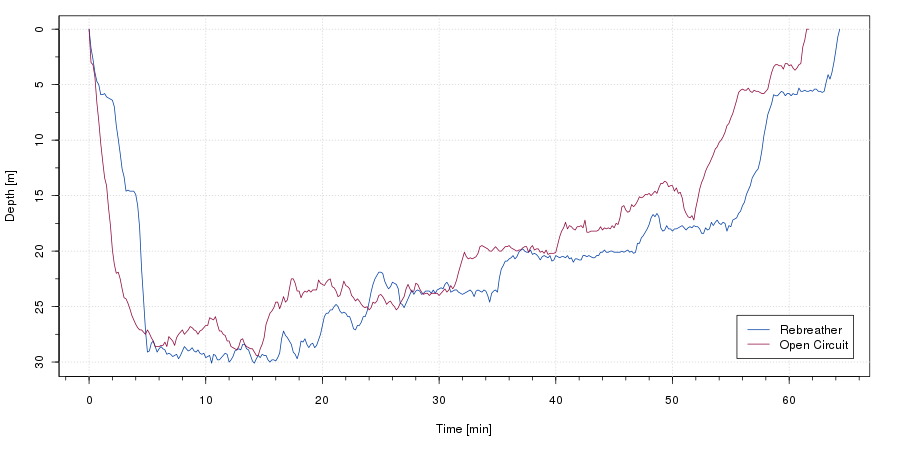
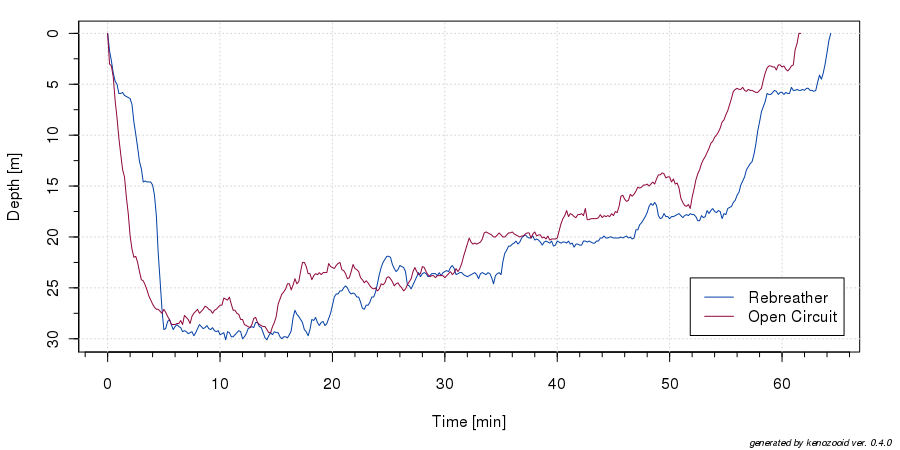
- set dpi of dive profile plots to 96 dpi to improve plot quality - signature displaying on dive profile comparison is back

diff --git a/doc/user/changelog.rst b/doc/user/changelog.rst
@@ -6,6 +6,7 @@ Kenozooid 0.4.0
 - setpoint data parsing and plotting implemented
 - dive profile annotation with gas and setpoint events improvements
 - improved dive info presentation on dive profile plot
+- improved quality of dive profile plots in PNG format
 
 Kenozooid 0.3.0
 ---------------
